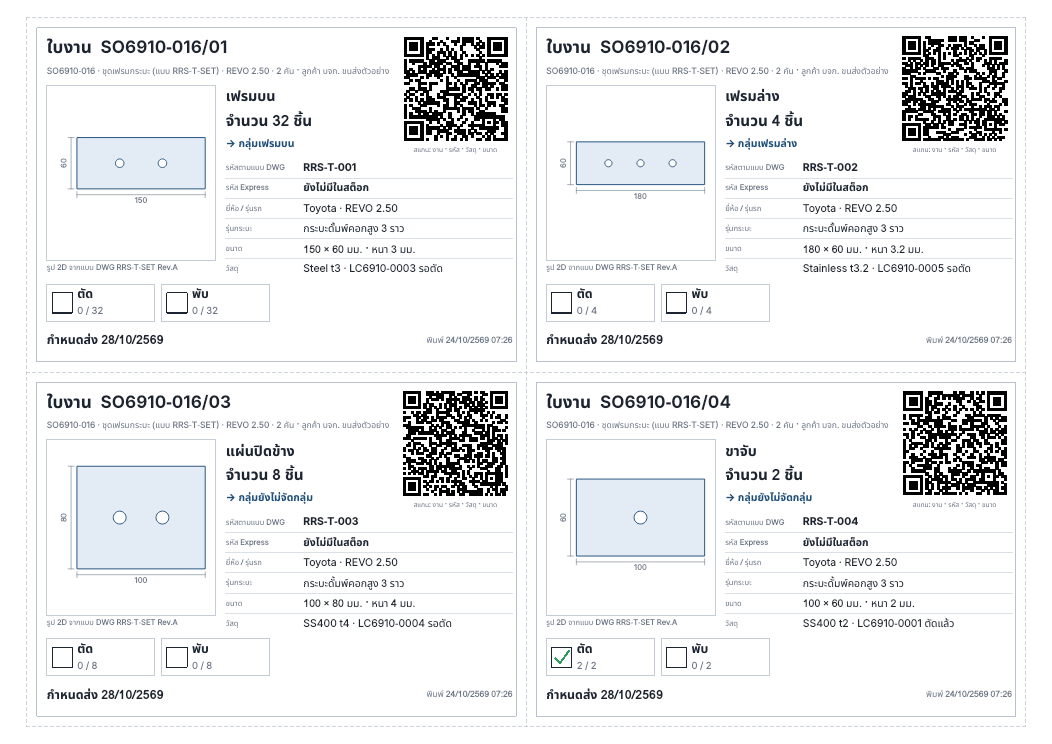
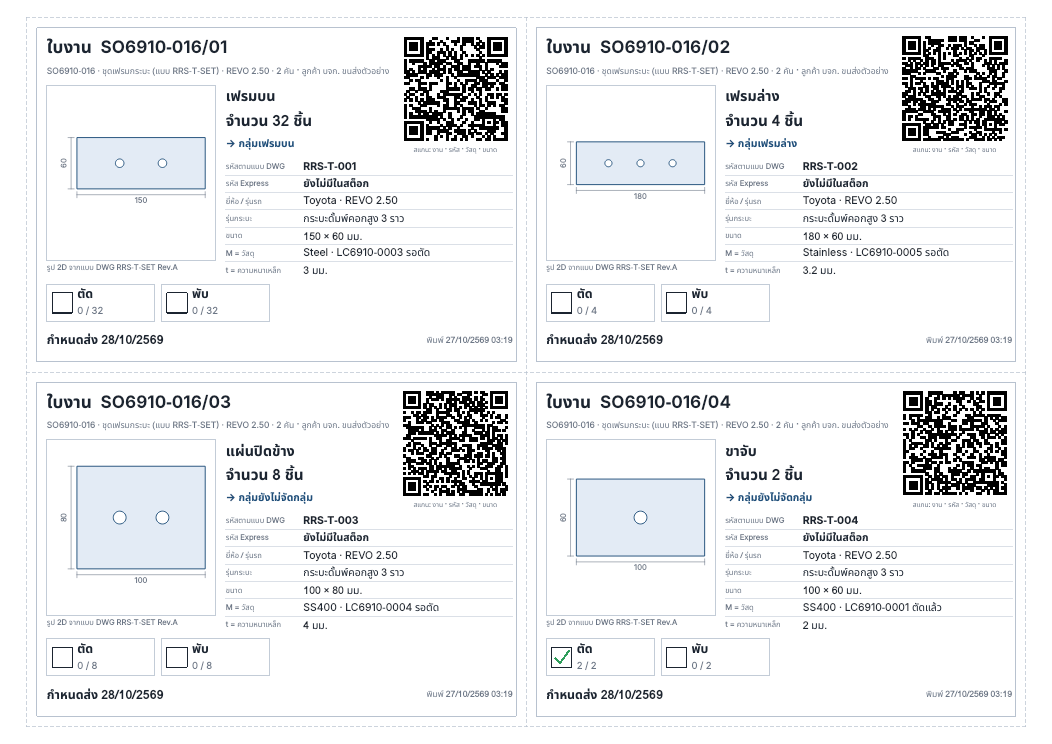
Job ticket: M = วัสดุ, then t = ความหนาเหล็ก (มม.) on the next line
The ticket form showed material and thickness on one line ('Steel t4') and the thickness again in
the size line. Now the material line is "M = วัสดุ" (Steel, with the laser program) and the line
after it is "t = ความหนาเหล็ก" (4 มม.); the size line is width x length only. The QR keeps
'Steel t4' in its material field, so tickets already printed scan the same.

Claude-Session: https://claude.ai/code/session_01H8D3iupff3KHzmxmh7VxhV

diff --git a/src/partlist_studio/core/catalog.py b/src/partlist_studio/core/catalog.py
@@ -414,7 +414,8 @@ class Ticket:
     name: str
     qty: float
     unit: str = "ชิ้น"
-    material: str = ""  # 'SS400 t3'
+    material: str = ""  # M = วัสดุ: 'SS400'
+    thickness: float = 0  # t = ความหนาเหล็ก (มม.)
     program: str = ""  # laser programs with this part: 'LC6910-0003 ตัดแล้ว'
     route: list = field(default_factory=list)  # [(step, done, need)]
     to: str = ""  # where it goes when finished
@@ -427,7 +428,7 @@ class Ticket:
     express_note: str = ""  # 'ยังไม่มีในสต็อก'
     vehicle: str = ""  # ยี่ห้อ / รุ่นรถ: 'Toyota · REVO'
     body: str = ""  # รุ่นกระบะที่ผลิต: 'กระบะดั้มพ์คอกสูง 3 ราว'
-    size: str = ""  # '150 × 60 มม. · หนา 3 มม.'
+    size: str = ""  # '150 × 60 มม.'
     drawing: str = ""  # where the 2D comes from: 'RRS-T-SET Rev.B'
     bends: list = field(default_factory=list)  # bend lines of the 2D
 
@@ -468,8 +469,8 @@ def job_tickets(job, indexes: list[int] | None = None, catalog: Catalog | None =
         drawing_code = p.drawing_code or (flat.code if flat else "") or ("" if item else p.code)
         express, note = _express_code(p, item, matches.get(i), stock)
         thickness = (flat.thickness if flat else 0) or p.thickness
-        material = " ".join(x for x in ((flat.material if flat else "") or p.material,
-                                        f"t{thickness:g}" if thickness else "") if x)
+        material = (flat.material if flat else "") or p.material
+        material_qr = " ".join(x for x in (material, f"t{thickness:g}" if thickness else "") if x)  # 'SS400 t3'
         size, size_qr = _part_size(flat, p.spec)
         key = job_key(job.job_no, i)
         progs = [f"{prog.no} {prog.status}" for prog in (programs or []) if key in prog.items]
@@ -483,10 +484,10 @@ def job_tickets(job, indexes: list[int] | None = None, catalog: Catalog | None =
                                            f"Rev.{flat.revision}" if flat.revision else "") if x)
         out.append(Ticket(
             no=f"{job.job_no}/{i + 1:02d}",
-            payload=ticket_payload(job.job_no, i + 1, p.code, p.to_make, drawing_code, express, material, size_qr,
-                                   p.name),
+            payload=ticket_payload(job.job_no, i + 1, p.code, p.to_make, drawing_code, express, material_qr,
+                                   size_qr, p.name),
             job_no=job.job_no, job_text=job_text, code=p.code, name=p.name, qty=p.to_make, unit=p.unit or "ชิ้น",
-            material=material, program=", ".join(progs),
+            material=material, thickness=thickness, program=", ".join(progs),
             route=[(s, min(p.done_at(s), p.to_make), p.to_make) for s in p.route], to=to,
             due=_thai_date(job.due) if job.due else "", image=image,
             outline=flat.outline if flat else [], remark=_ticket_remark(p.remark),
@@ -533,11 +534,11 @@ def _mm(v: float) -> str:
 
 
 def _part_size(flat, spec: str) -> tuple[str, str]:
-    """('150 × 60 มม. · หนา 3 มม.', '150x60') from the 2D of the drawing, else the spec of the Part List."""
+    """('150 × 60 มม.', '150x60') from the 2D of the drawing, else the spec of the Part List (the thickness has a
+    line of its own on the ticket)."""
     if flat is not None and flat.outline:
         w, h = flat.size
-        text = f"{_mm(w)} × {_mm(h)} มม." + (f" · หนา {flat.thickness:g} มม." if flat.thickness else "")
-        return text, f"{_mm(w)}x{_mm(h)}"
+        return f"{_mm(w)} × {_mm(h)} มม.", f"{_mm(w)}x{_mm(h)}"
     return spec, spec
 
 

diff --git a/tests/test_catalog.py b/tests/test_catalog.py
@@ -142,7 +142,7 @@ def test_tickets_labels_and_qr():
     tickets = catalog.job_tickets(job, None, cat, None, lib, queue.programs)
     assert [t.code for t in tickets] == ["RRS-T-001", "RRS-T-003", "RRS-T-004", "RRS-T-005"]
     t = tickets[0]
-    assert t.no == "SO6910-015/01" and t.qty == 48 and t.due == "30/10/2569" and t.material == "Steel t3"
+    assert t.no == "SO6910-015/01" and t.qty == 48 and t.due == "30/10/2569" and (t.material, t.thickness) == ("Steel", 3)
     assert t.to == "เก็บที่ P-FU-01 · กลุ่มเฟรมบน" and t.outline and t.program.startswith("LC")
     assert t.route == [("ตัด", 0, 48), ("พับ", 0, 48)] and "พื้นที่สุทธิ" not in t.remark
     scan = qr.parse_payload(t.payload)
@@ -150,7 +150,7 @@ def test_tickets_labels_and_qr():
     # the form: DWG code, Express code, 2D of the drawing with its size, vehicle, body model; the Part List
     # details (material, size) in the QR after the six fields the program reads
     assert (t.drawing_code, t.express_code, t.express_note) == ("RRS-T-001", "", "")  # no stock file given
-    assert t.size == "150 × 60 มม. · หนา 3 มม." and t.vehicle == "Toyota" and t.body == "คอกสูง 3 ราว"
+    assert t.size == "150 × 60 มม." and t.vehicle == "Toyota" and t.body == "คอกสูง 3 ราว"
     assert scan.details == ["RRS-T-001", "", "Steel t3", "150x60", "เฟรมบน"]
     stock = StockList(items=[StockItem(code="RRS-A-001-250", name="เฟรมบน 250", on_hand=1)])
     job.brand, job.vehicle = "T", "REVO"
@@ -162,8 +162,12 @@ def test_tickets_labels_and_qr():
     from partlist_studio.ui.printing import TICKET_ROWS, ticket_rows
 
     rows = ticket_rows(t3)
-    assert [label for label, _v in rows][:6] == TICKET_ROWS and rows[1][1] == "ยังไม่มีในสต็อก"
-    assert dict(rows)["ขนาด"] == "100 × 80 มม. · หนา 4 มม." and dict(rows)["วัสดุ"].startswith("SS400 t4")
+    assert [label for label, _v in rows][:7] == TICKET_ROWS and rows[1][1] == "ยังไม่มีในสต็อก"
+    # M = วัสดุ, then t = ความหนาเหล็ก (มม.) on the next line; the size line has no thickness
+    labels = [label for label, _v in rows]
+    assert labels.index("t = ความหนาเหล็ก") == labels.index("M = วัสดุ") + 1
+    assert dict(rows)["ขนาด"] == "100 × 80 มม." and dict(rows)["M = วัสดุ"].startswith("SS400")
+    assert "t4" not in dict(rows)["M = วัสดุ"] and dict(rows)["t = ความหนาเหล็ก"] == "4 มม."
     matrix = qr.qr_matrix(t.payload)
     assert len(matrix) >= 21 and all(len(row) == len(matrix) for row in matrix)
 
@@ -187,6 +191,7 @@ def test_job_keeps_the_dwg_code_next_to_the_stock_code():
     again = production.Job.from_dict(job.to_dict())
     assert again.body == "กระบะดั้มพ์คอกสูง 3 ราว" and again.parts[0].drawing_code == "RRS-T-039"
     t, t2 = catalog.job_tickets(again)
-    assert (t.drawing_code, t.express_code, t.material, t.size) == ("RRS-T-039", "RRS-A-039-NO1-PR", "SS400 t5", "t5")
+    assert (t.drawing_code, t.express_code, t.material, t.thickness, t.size) == ("RRS-T-039", "RRS-A-039-NO1-PR",
+                                                                       "SS400", 5, "t5")
     assert (t.vehicle, t.body) == ("Toyota", "กระบะดั้มพ์คอกสูง 3 ราว")
     assert (t2.drawing_code, t2.express_code) == ("RRS-T-024", "RRS-T-024-L-84")

diff --git a/src/partlist_studio/ui/printing.py b/src/partlist_studio/ui/printing.py
@@ -194,14 +194,17 @@ def _checkbox(p: QPainter, rect: QRectF, done: bool, pen_w: float) -> None:
     p.restore()
 
 
-TICKET_ROWS = ["รหัสตามแบบ DWG", "รหัส Express", "ยี่ห้อ / รุ่นรถ", "รุ่นกระบะ", "ขนาด", "วัสดุ"]
+TICKET_ROWS = ["รหัสตามแบบ DWG", "รหัส Express", "ยี่ห้อ / รุ่นรถ", "รุ่นกระบะ", "ขนาด", "M = วัสดุ",
+               "t = ความหนาเหล็ก"]
 
 
 def ticket_rows(t: Ticket) -> list[tuple[str, str]]:
-    """The labelled lines of a ticket (the remark only when there is one)."""
+    """The labelled lines of a ticket (the remark only when there is one): M = วัสดุ, then t = ความหนา (มม.)."""
     express = t.express_code + (f" ({t.express_note})" if t.express_code and t.express_note else "")
     material = " · ".join(x for x in (t.material, t.program) if x)
-    rows = list(zip(TICKET_ROWS, [t.drawing_code, express or t.express_note, t.vehicle, t.body, t.size, material]))
+    thickness = f"{t.thickness:g} มม." if t.thickness else ""
+    rows = list(zip(TICKET_ROWS, [t.drawing_code, express or t.express_note, t.vehicle, t.body, t.size, material,
+                                  thickness]))
     rows = [(label, value or "–") for label, value in rows]
     if t.remark:
         rows.append(("หมายเหตุ", t.remark))
@@ -239,13 +242,13 @@ def _paint_ticket(p: QPainter, mm: _Mm, t: Ticket, printed: str) -> None:
     if t.to:
         _text(p, mm(59, 34.3, 49, 6), "→ " + t.to, 9, True, color=QColor(theme.NAVY), fit=True)
     rows = ticket_rows(t)
-    step = 36.0 / max(6, len(rows))
+    step = 36.0 / max(7, len(rows))
     for n, (label, value) in enumerate(rows):
         y = 41.5 + n * step
         if n:
             p.setPen(QPen(LINE, mm.v(0.15)))
             p.drawLine(QPointF(mm.v(59), mm.v(y)), QPointF(mm.v(144), mm.v(y)))
-        _text(p, mm(59, y, 23, step), label, 6.5, color=MUTED)
+        _text(p, mm(59, y, 23, step), label, 6.5, color=MUTED, fit=True, min_pt=5)
         _text(p, mm(82, y, 62, step), value, 9 if n < 2 else 8.5, n < 2, fit=True, min_pt=5.5)
 
     steps = t.route or [("เสร็จ", 0, t.qty)]

diff --git a/docs/STOCK_PRODUCTION_DESIGN.md b/docs/STOCK_PRODUCTION_DESIGN.md
@@ -377,7 +377,7 @@ SO6910-015  คอกสูง 3 ราว · Toyota Champ · 3 คัน · ส
 | ป้าย QR ชั้นวาง | ปุ่ม **พิมพ์ป้ายชั้นวาง (QR)…** | PDF A4 3 × 8 ดวง (70 × 37 มม.) ใช้กระดาษสติกเกอร์ หรือกระดาษธรรมดาตัดตามเส้นประ |
 | ความพร้อมประกอบต่องาน | งานผลิต (SO) → แท็บ **ความพร้อมประกอบ** | % ต่อกลุ่ม · ขาดชิ้นไหน กี่ชิ้น อยู่ขั้นไหน · คลิกกลุ่มเพื่อดูรายชิ้นพร้อมตำแหน่งเก็บ |
 | ใบจัดชุด | ปุ่ม **ใบจัดชุด (Excel)…** ในแท็บความพร้อมประกอบ | ใบหยิบของงานนั้น แยกกลุ่ม มีตำแหน่งเก็บและช่องติ๊ก *หยิบแล้ว* |
-| ใบงานพร้อม QR | ปุ่ม **พิมพ์ใบงาน (QR)…** + ช่องเลือก **ใบต่อแผ่น** | PDF 1 ใบต่อชิ้นส่วน (เลือกแถว หรือไม่เลือก = ทุกชิ้นที่ต้องผลิต) พิมพ์ได้ **A6 · 1 ใบ/แผ่น** (กระดาษ/สติกเกอร์ A6) หรือหลายใบต่อ A4: **2 ใบ** (เต็มขนาด A6) · **4 ใบ** (A4 แนวนอน 95 % ของ A6 – ค่าเริ่มต้น) · **8 ใบ** (ใบเล็ก 68 %) มีเส้นประให้ตัด และเว้นขอบ 5 มม. ที่เครื่องพิมพ์พิมพ์ไม่ถึง (ระบบจำค่าที่เลือกไว้): **รหัส Part ตามแบบ DWG · รหัส Part Express** (ชิ้นที่ยังไม่ผูกรหัสสโตร์ใช้ผลจับคู่รหัสอัตโนมัติ เช่น RRS-T-039 → RRS-A-039-NO1-PR ถ้ายังไม่แน่ใจขึ้น *(ควรตรวจ)*) · **รูป 2D จากไฟล์แบบ DWG** พร้อมเส้นพับและขนาดกว้าง × ยาว (ไม่มีแบบใช้รูปชิ้นงาน) · **ยี่ห้อ / รุ่นรถ** (ยี่ห้อจากหน้าภาพรวมหรือหลักที่ 2 ของรหัส) · **รุ่นกระบะที่ผลิต** (แบบงาน เช่น กระบะดั้มพ์คอกสูง 3 ราว) · **ขนาดของ Part** (กว้าง × ยาว มม. · หนา) · วัสดุ เลขโปรแกรมเลเซอร์ จำนวน ช่องติ๊กทุกขั้น ที่เก็บเมื่อเสร็จ และกำหนดส่ง · QR มีรายละเอียด Part List ต่อท้าย `RRS1|J|งาน|แถว|รหัส|จำนวน|รหัส DWG|รหัส Express|วัสดุ|ขนาด|ชื่อ` (สแกนด้วยมือถือเห็นรายละเอียด · โปรแกรมอ่าน 6 ช่องแรกเหมือนเดิม) |
+| ใบงานพร้อม QR | ปุ่ม **พิมพ์ใบงาน (QR)…** + ช่องเลือก **ใบต่อแผ่น** | PDF 1 ใบต่อชิ้นส่วน (เลือกแถว หรือไม่เลือก = ทุกชิ้นที่ต้องผลิต) พิมพ์ได้ **A6 · 1 ใบ/แผ่น** (กระดาษ/สติกเกอร์ A6) หรือหลายใบต่อ A4: **2 ใบ** (เต็มขนาด A6) · **4 ใบ** (A4 แนวนอน 95 % ของ A6 – ค่าเริ่มต้น) · **8 ใบ** (ใบเล็ก 68 %) มีเส้นประให้ตัด และเว้นขอบ 5 มม. ที่เครื่องพิมพ์พิมพ์ไม่ถึง (ระบบจำค่าที่เลือกไว้): **รหัส Part ตามแบบ DWG · รหัส Part Express** (ชิ้นที่ยังไม่ผูกรหัสสโตร์ใช้ผลจับคู่รหัสอัตโนมัติ เช่น RRS-T-039 → RRS-A-039-NO1-PR ถ้ายังไม่แน่ใจขึ้น *(ควรตรวจ)*) · **รูป 2D จากไฟล์แบบ DWG** พร้อมเส้นพับและขนาดกว้าง × ยาว (ไม่มีแบบใช้รูปชิ้นงาน) · **ยี่ห้อ / รุ่นรถ** (ยี่ห้อจากหน้าภาพรวมหรือหลักที่ 2 ของรหัส) · **รุ่นกระบะที่ผลิต** (แบบงาน เช่น กระบะดั้มพ์คอกสูง 3 ราว) · **ขนาดของ Part** (กว้าง × ยาว มม.) · **M = วัสดุ** (และเลขโปรแกรมเลเซอร์) แล้วบรรทัดถัดไป **t = ความหนาเหล็ก (มม.)** จำนวน ช่องติ๊กทุกขั้น ที่เก็บเมื่อเสร็จ และกำหนดส่ง · QR มีรายละเอียด Part List ต่อท้าย `RRS1|J|งาน|แถว|รหัส|จำนวน|รหัส DWG|รหัส Express|วัสดุ|ขนาด|ชื่อ` (สแกนด้วยมือถือเห็นรายละเอียด · โปรแกรมอ่าน 6 ช่องแรกเหมือนเดิม) |
 | สแกนใบงาน | ช่อง **สแกนใบงาน (QR) / ค้นหารหัส** ในหน้างานผลิต | เครื่องสแกน QR แบบ USB (ทำงานเหมือนคีย์บอร์ด) สแกนแล้วโปรแกรมเปิดงานและเลือกแถวชิ้นนั้นให้ กด *ผ่านขั้นถัดไป* หรือ *บันทึกจำนวน* ต่อได้ทันที |
 
 ข้อความใน QR สั้นและอ่านได้ทั้งเครื่องสแกนและมือถือ:

diff --git a/docs/UI_DESIGN.md b/docs/UI_DESIGN.md
@@ -58,7 +58,7 @@
 | หน้าต่างจับคู่คอลัมน์ | ยืนยันว่าคอลัมน์ในไฟล์ ZWCAD/Excel/Google ตรงกับช่องใด | ![](screenshots/8_column_mapping.png) |
 | เลือกรุ่นย่อย | รุ่นรถ / ความสูงคอก / ความยาว → รหัส Express ทุกแถว เลือกรหัสอื่นต่อแถวได้ | ![](screenshots/11_variant_dialog.png) |
 | งานผลิต (SO) | งาน × จำนวนคัน, จำนวนที่ผ่านแต่ละขั้น (แก้ในช่องสีเหลือง), สถานะ รอตัด/รอพับ/รอเชื่อม/เสร็จ, สร้างใบเบิก/รับ, ช่องสแกนใบงาน (QR) | ![](screenshots/12_production.png) |
-| งานผลิต – ความพร้อมประกอบ / ใบงาน QR | % พร้อมต่อกลุ่มประกอบ (แถบเขียว = ครบ ปล่อยประกอบได้, ส้ม = ยังขาด) · ขาดชิ้นไหน อยู่ขั้นไหน · ใบจัดชุด Excel · ใบงาน A6 พร้อม QR (รายละเอียด Part List + วัสดุ): รหัสตามแบบ DWG / รหัส Express, รูป 2D จากแบบพร้อมขนาด, ยี่ห้อ/รุ่นรถ, รุ่นกระบะ, ขนาด, ขั้นตอน และที่เก็บ – พิมพ์ A6 1 ใบ/แผ่น หรือ 2 / 4 / 8 ใบต่อ A4 พร้อมเส้นตัด | ![](screenshots/12b_readiness.png) ![](screenshots/12c_job_ticket.png) ![](screenshots/12d_job_tickets_a4.png) |
+| งานผลิต – ความพร้อมประกอบ / ใบงาน QR | % พร้อมต่อกลุ่มประกอบ (แถบเขียว = ครบ ปล่อยประกอบได้, ส้ม = ยังขาด) · ขาดชิ้นไหน อยู่ขั้นไหน · ใบจัดชุด Excel · ใบงาน A6 พร้อม QR (รายละเอียด Part List + วัสดุ): รหัสตามแบบ DWG / รหัส Express, รูป 2D จากแบบพร้อมขนาด, ยี่ห้อ/รุ่นรถ, รุ่นกระบะ, ขนาด, M = วัสดุ แล้ว t = ความหนาเหล็ก (มม.), ขั้นตอน และที่เก็บ – พิมพ์ A6 1 ใบ/แผ่น หรือ 2 / 4 / 8 ใบต่อ A4 พร้อมเส้นตัด | ![](screenshots/12b_readiness.png) ![](screenshots/12c_job_ticket.png) ![](screenshots/12d_job_tickets_a4.png) |
 | เบิก / รับ สต็อก | เอกสาร PD OU FR RR AJ, บันทึกแล้วยอดเปลี่ยน, ประวัติการเคลื่อนไหว, วัตถุดิบต่อชิ้น | ![](screenshots/13_movements.png) |
 | ตัดเหล็ก / เลเซอร์ – วางแผนตัด | จาก Part List × คัน หรือจากงานผลิตที่เปิดอยู่ (ติ๊กงาน): แผ่นที่ใช้ต่อวัสดุ/ความหนา, % ใช้เหล็ก, ภาพการวางชิ้นงาน | ![](screenshots/14_nesting.png) ![](screenshots/14b_laser_plan_jobs.png) |
 | ตัดเหล็ก / เลเซอร์ – ตรวจก่อนตัด | รูเล็ก, รูชิดขอบ, ชิ้นเล็ก, เส้นซ้อน, ไม่มีความหนา, ใหญ่กว่าแผ่น (แดง = ต้องแก้, ส้ม = เตือน) | ![](screenshots/14c_laser_checks.png) |
